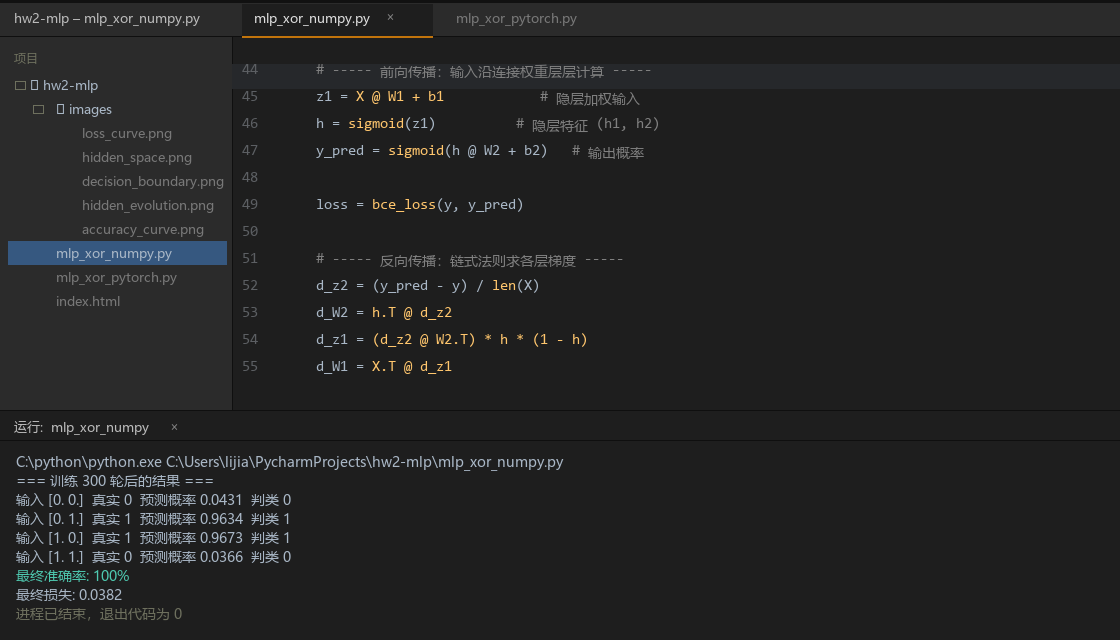
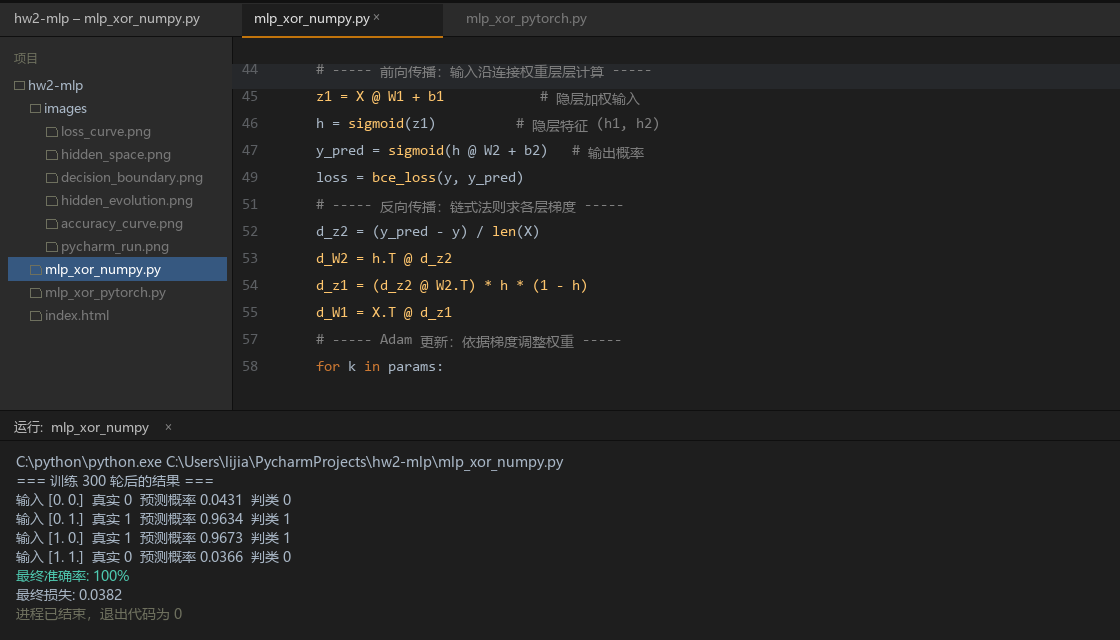
3.2 小节新增 PyTorch 版 PyCharm 运行图

diff --git a/hw2-mlp/index.html b/hw2-mlp/index.html
@@ -345,6 +345,10 @@ for epoch in range(1, 301):
       <div class="item"><b>&gt;0.5 → 1</b><span>分类阈值</span></div>
     </div>
     <div class="tip">两个版本超参数完全一致。NumPy 版连 Adam 都是手写的，PyTorch 版用 <code class="inline">loss.backward()</code> 自动求梯度——结果一致，互相验证。</div>
+    <figure style="margin-top:18px">
+      <img src="images/pycharm_run_torch.png" alt="PyCharm 运行 PyTorch 版效果">
+      <figcaption><b>附图 · PyTorch 版在 PyCharm 里跑起来的样子</b> —— 上半部分是与老师 PPT 一致的 PyTorch 实现（<code class="inline">Parameter</code> 手写前向 + <code class="inline">BCELoss</code> + <code class="inline">Adam</code>），下半部分是控制台真实输出：第 50 轮时还只有 75%（正好是踩坑记录里说的局部最优阶段），第 100 轮起稳定 100%，最终损失 0.0322。</figcaption>
+    </figure>
   </div>
 
   <div class="card">
